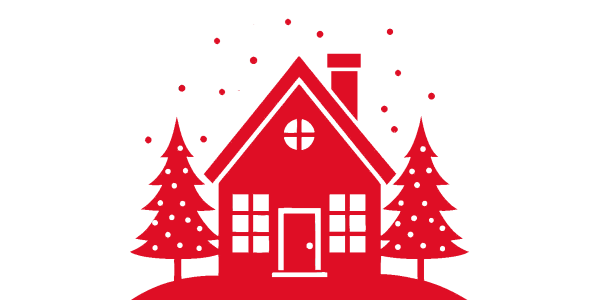
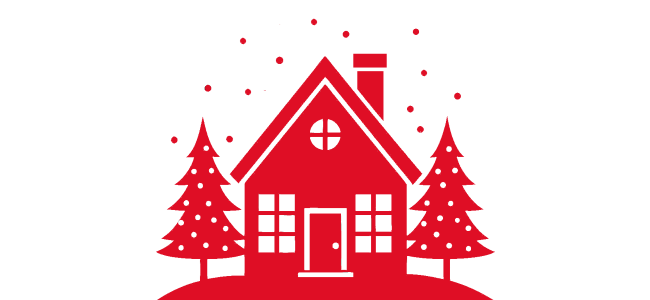
SeC 0.4

diff --git a/SoloEnCasa/css/threefold.css b/SoloEnCasa/css/threefold.css
@@ -115,7 +115,7 @@ h4 {
 }
 
 h1 {
-  font-size: 42px;
+  font-size: 36.5px;
   margin: -25px 20px 20px 20px;
   color: var(--main-color);
   line-height: 120%;

diff --git a/SoloEnCasa/SoloEnCasa.md b/SoloEnCasa/SoloEnCasa.md
@@ -10,30 +10,32 @@ La forma de crear los personajes tienen algunos puntos diferentes con el juego o
 |---|---|
 |Club de ciencias|Química, electricidad, explosivos caseros|
 |Club de audiovisuales|Cámaras de seguridad, equipos de sonido, efectos visuales y especiales|
-|Club de informática|Hacking|
+|Deportes|Correr, saltar, trepar, lanzar, batear|
 |Club de teatro|Mentir, llorar, fingir, esgrima teatral|
-|XXX|XXX|
+|Club de ajedrez|Tácticas y emboscadas, frío como el hielo|
+|Club de jóvenes granjeras|Manejar animales, mover cosas pesadas|
+|Club de francés|Fingir ser francés, seducir con tu acento|
 
 ### Rasgos y relaciones
 
-En caso de que haya más de una jugadora en la partida, tendrán que tener algún tipo de relación. La idea para crear estas relaciones es que sean muy opuestos, rollo _buddy movie_ o peli de colegas donde hay una poli superrecta y otra superalocada. Es decir, igual una es une juerguista y la otra una empollona. O tal vez, haya muchos años de diferencia entre elles.
+De los 3 rasgos básicos, «Hábito» se queda como está. «Creencia» pasa a convertirse en «Modelo a seguir» y «Conducta» tiene una regla especial cuando hay varios jugadores.
 
-Otra opción, en el otro extremo, sería hermanas gemelas que se acaban las frases entre sí.
-
-XXX
+**Conducta:** En caso de que haya más de una jugadora en la partida, tendrán que tener algún tipo de relación, hermanas, amigas, primas, integrantes del mismo equipo o club, etc. La idea es que sus conductas sean muy opuestas, rollo _buddy movie_ o peli de colegas donde hay un personaje cauto y otro temerario.
 
 \sc
 
-En cuanto a rasgos, en vez de creencias tienes tu modelo a seguir. Es ese personaje al que idolatras y que te sirve de guía moral. Puede ser un personaje de la tele, del comic, del cine, de los dibujos animados, una deportista o una científica famosa.
+Es decir, igual una es una juerguista y la otra una empollona. Solo podrían ser iguales si son hermanas gemelas que se acaban las frases entre sí.
 
-|1d6|Hábito|Tu modelo a seguir|Conducta|
-|---|---|---|---|
-|1|XXX|XXX|XXX|
-|2|XXX|XXX|XXX|
-|3|XXX|XXX|XXX|
-|4|XXX|XXX|XXX|
-|5|XXX|XXX|XXX|
-|6|XXX|XXX|XXX|
+**Modelo a seguir:** Es ese personaje al que idolatras y que te sirve de guía moral. Puede ser un personaje de la tele, del comic, del cine, de los dibujos animados, una deportista o una científica famosa.
+
+|1d6|Tu modelo a seguir|
+|---|---|
+|1|Personaje de Barrio Sésamo|
+|2|He-Man, León-o|
+|3|Michael Jordan, Tonya Harding, Wayne Gretzky|
+|4|XXX|
+|5|XXX|
+|6|Jesus|
 
 ## Equipo
 
@@ -47,12 +49,12 @@ El equipo que podrás encontrar son cosas normales de una casa de película amer
 |4|**Material eléctrico:** baterías y pilas, cables de batería para el coche, luces de navidad, linterna|
 |5|**Motores y piezas móviles:** vieja cortacesped, bicicleta estática, soplador de hojas, batidora, coche por radiocontrol|
 |6|**Cosas pesadas:** bola de bolos, busto de mármol, martillo de demolición, casco de moto|
-|7|**Cosas que pinchan en los pies:** piezas de lego, chinchetas, rulos del pelo, agujas de coser y/o de calceta, cosas rotas de cristal|
 
 \sc
 
 |1d8|Equipo para trampas|
 |---|---|
+|7|**Cosas que pinchan en los pies:** piezas de lego, chinchetas, rulos del pelo, agujas de coser y/o de calceta, cosas rotas de cristal|
 |8|**Miscelánea:** prismáticos, escuchabebes, extintor, casco de la guerra del abuelo, pegamento superfuerte, atizador de la chimenea, caña de pescar, trineo, Scalextric, plastilina|
 
 Aunque sea normal en la típica casa americana, en este juego **no hay armas de fuego** como tal, como mucho puedes tener una pistola NERF o una escopeta de balines, pero tampoco debería dejarse usar como arma, sino para activar trampas a distancia o para distraer a los tontos ladrones.
@@ -65,7 +67,7 @@ También hay mixtas con parte portatil y parte estática. La parte estática pue
 
 XXX
 
-_REVISAR XXX: Yo las trampas las haría como todo lo demás: Para montarla, reunir las piezas necesarias y decir dónde está (sin prueba). Para activarla, una prueba enfrentada (de acción) contra el que pasa por ahí. Pero si se falla no hay derrota, simplemente, el rival la ve y la supera o la trampa falla … Se podría incluso no decir al DJ dónde está y apuntarla en un papel, si el ladrón pasa por ahí, Kevin enseña el papel y hace la prueba.__
+_REVISAR: Yo las trampas las haría como todo lo demás: Para montarla, reunir las piezas necesarias y decir dónde está (sin prueba). Para activarla, una prueba enfrentada (de acción) contra el que pasa por ahí. Pero si se falla no hay derrota, simplemente, el rival la ve y la supera o la trampa falla … Se podría incluso no decir al DJ dónde está y apuntarla en un papel, si el ladrón pasa por ahí, Kevin enseña el papel y hace la prueba.__
 
 \sp
 
@@ -122,12 +124,12 @@ Hecho bajo licencia [CC-by-nc 4.0](https://creativecommons.org/licenses/by-nc/4.
 
 # PELÍCULA NAVIDEÑA de NIÑO SOLO en CASA
 
-«Película navideña de niño solo en casa» es un hack para [«Una trampa de hormigón»](https://kinderwebo.itch.io/una-trampa-de-hormign) de [Kinderwebo](https://kinderwebo.itch.io/) donde podrás jugar la auténtica peli navideña de acción.
+**Película navideña de niño solo en casa** es un hack para [Una trampa de hormigón](https://kinderwebo.itch.io/una-trampa-de-hormign) de [Kinderwebo](https://kinderwebo.itch.io/) donde podrás jugar la auténtica peli navideña de acción.
 
-Es Navidad y toda tu familia se ha ido a Hawái, el problema es que se han olvidado de ti y ahora estás sola en casa.
+Es Navidad y toda tu familia se ha ido a Hawái, el problema es que se han olvidado de ti y ahora estás **sola en casa**.
 
-XXX
+**Un par de ladrones con más músculo que cerebro han visto la oportunidad de robar en tu barrio,** ahora que las familias están fuera por Navidad. Pero lo que no saben es que tú estás en casa y vas a defender tu hogar a capa y espada.
 
-Hay una nevada increíble y es casi imposible salir a la calle. Las comunicaciones están cortadas por el temporal de nieve y la posible ayuda tardará horas en llegar hasta que abran camino los quitanieves.
+Si todo esto no fuera ya de por sí una gran aventura, **hay una nevada increíble y es imposible salir a la calle.** Las comunicaciones están cortadas por el temporal de nieve y la posible ayuda tardaría horas en llegar hasta que abran camino los quitanieves.
 
-Para representar mejor la acción de las películas de «Solo en casa» y similares se han hecho una serie de modificaciones a las reglas básicas de «Una trampa de hormigón».
+Para representar mejor la acción de las **películas de Solo en casa** y similares se han hecho una serie de modificaciones a las reglas básicas de **Una trampa de hormigón**.